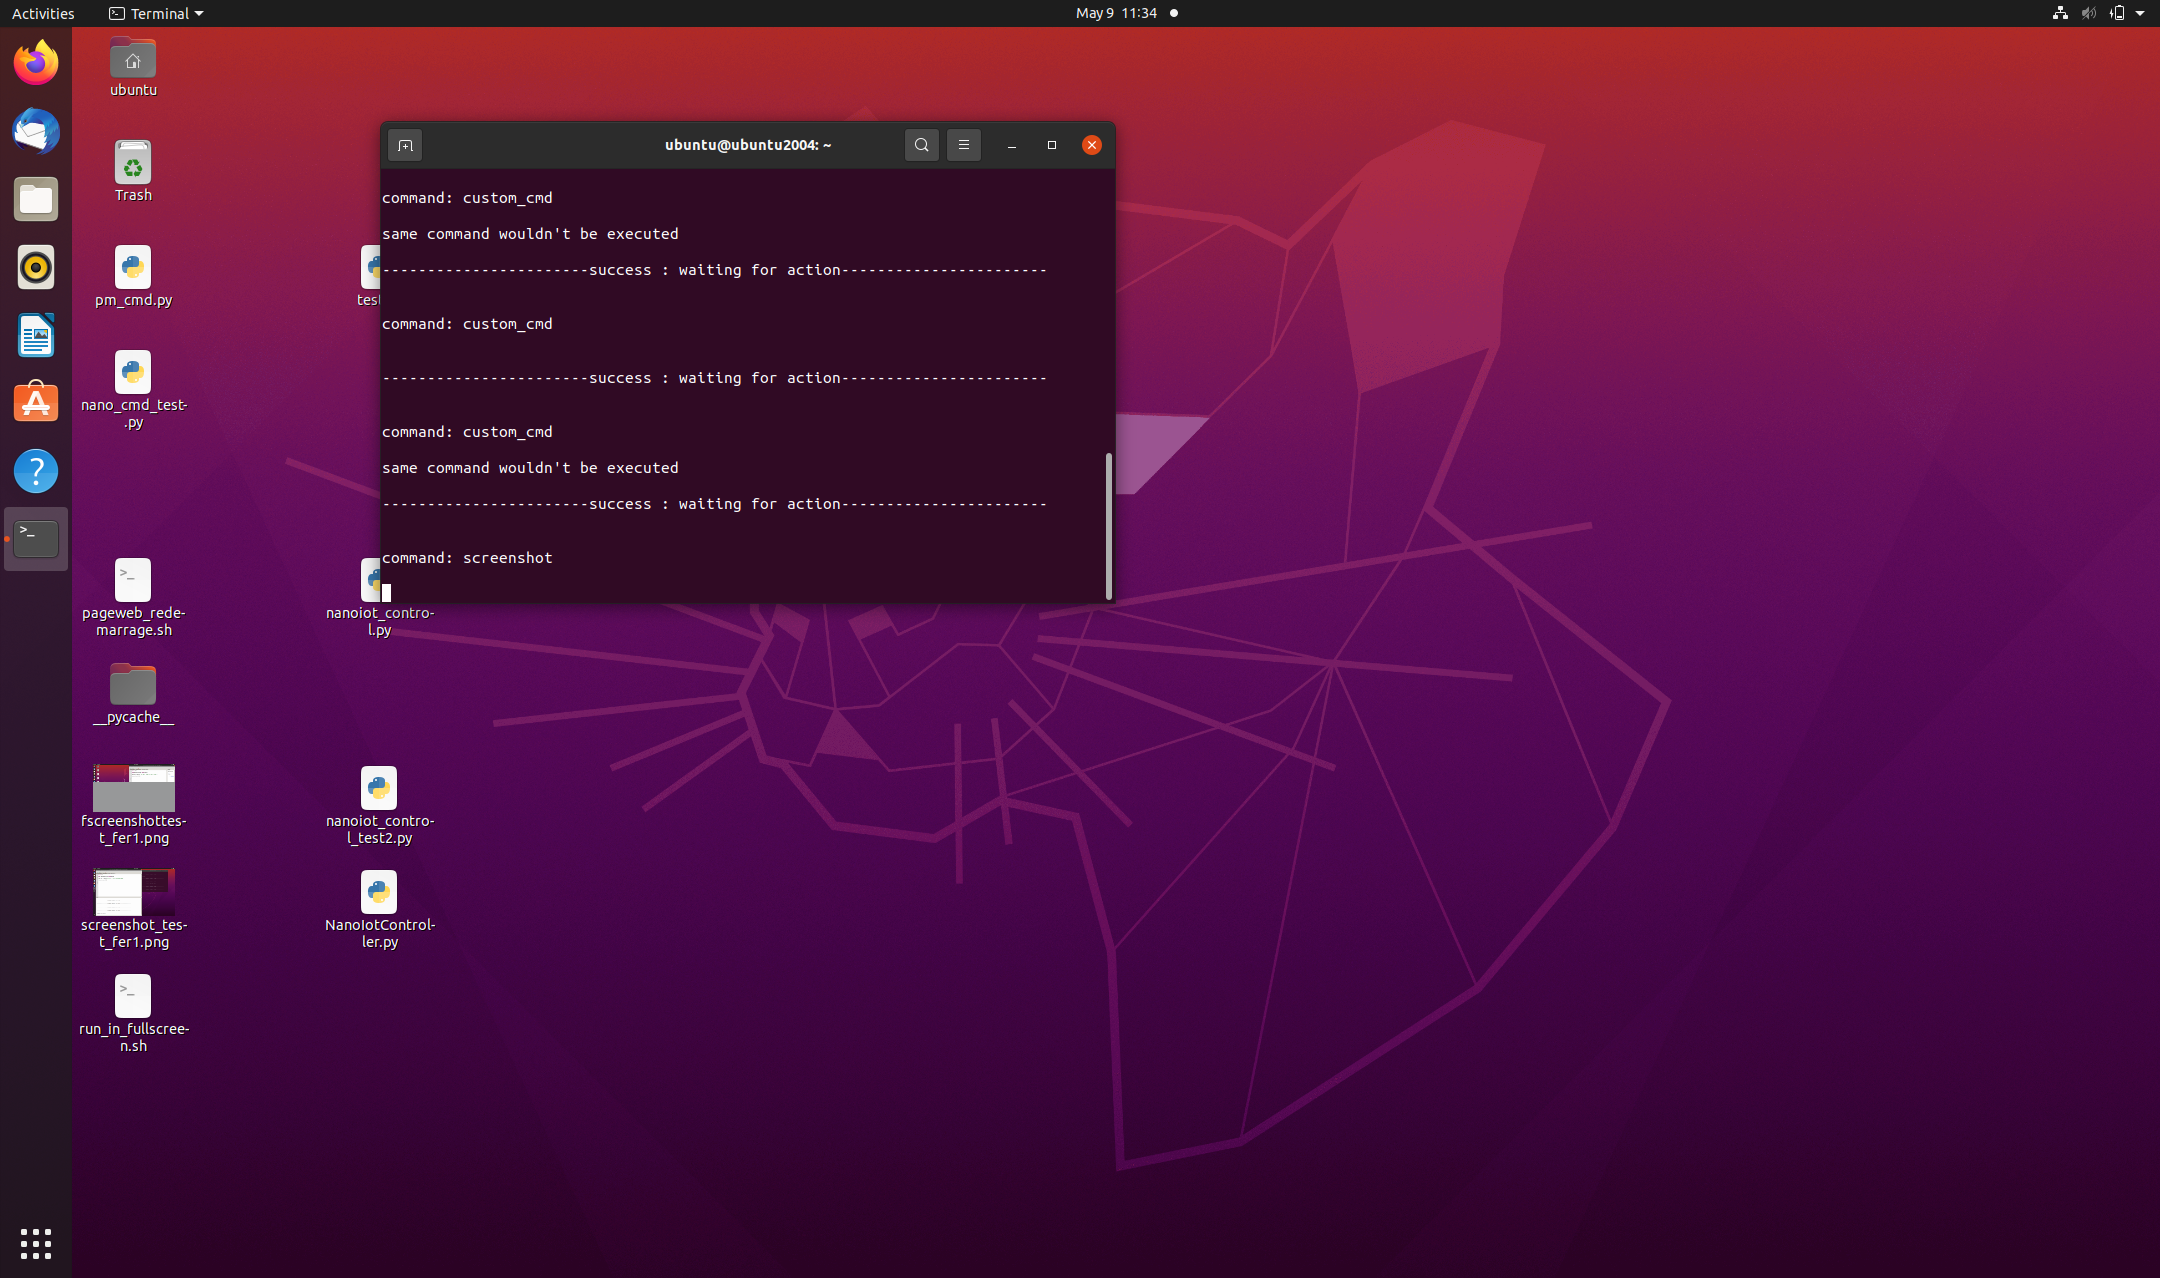
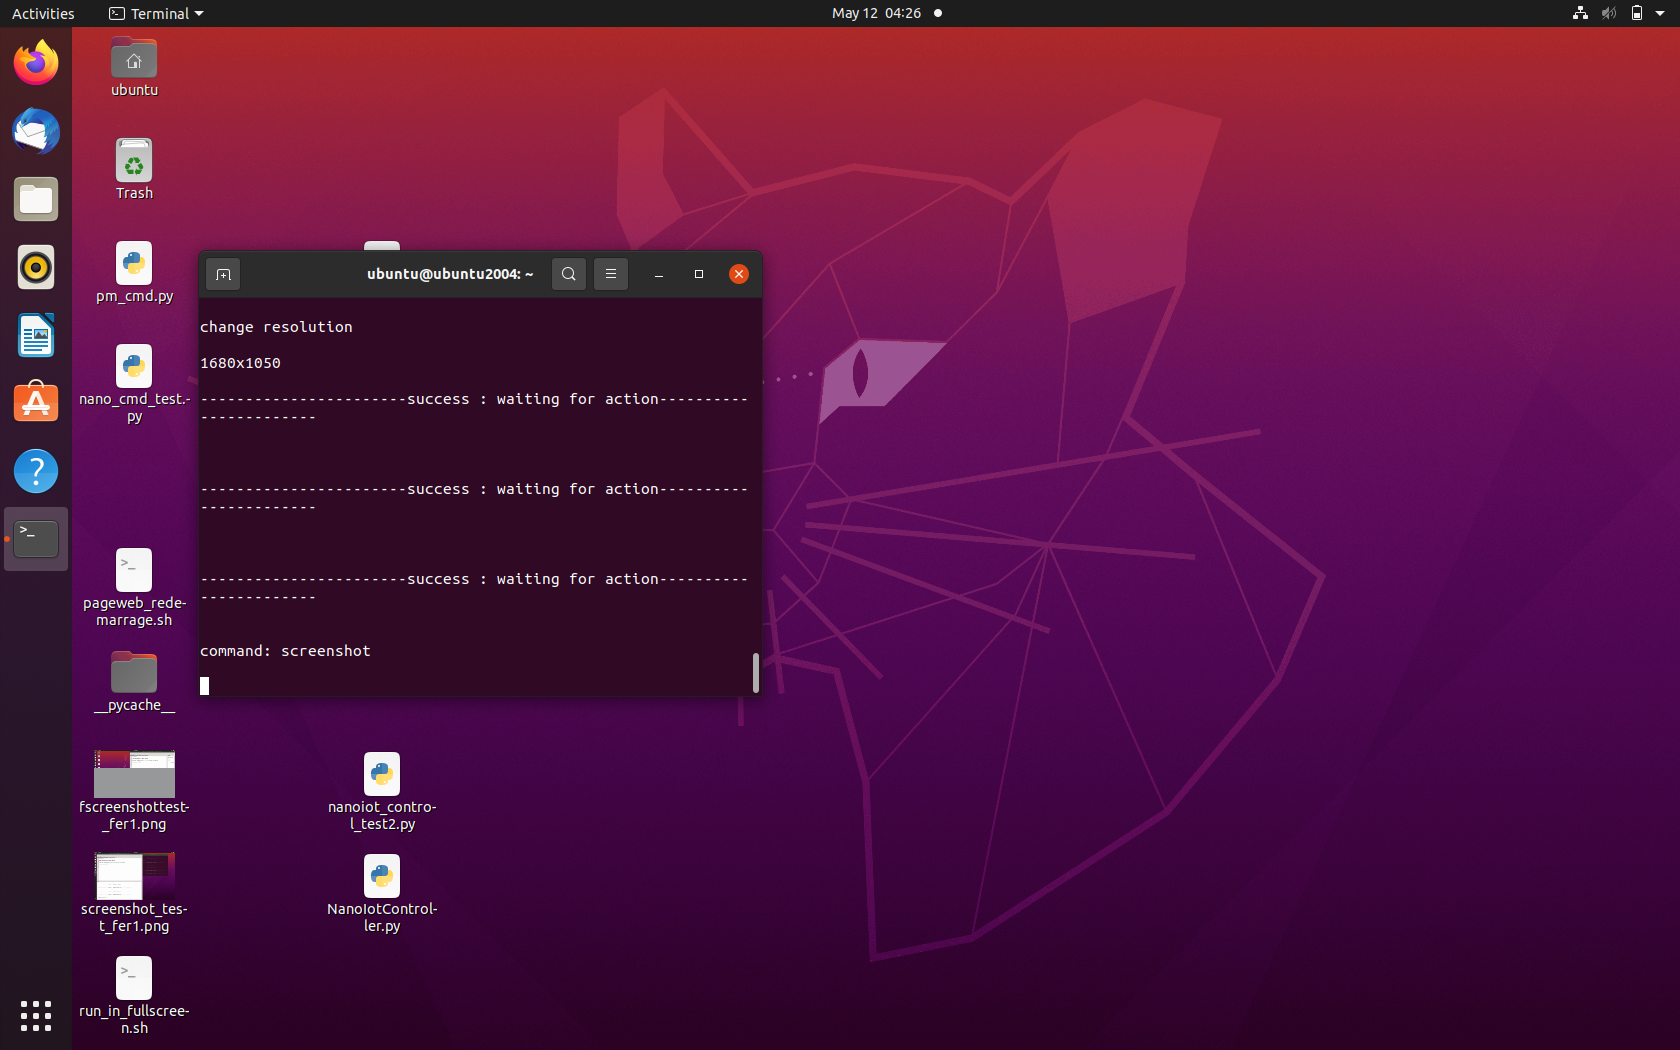
nano reactive testing

diff --git a/templates/nano.html b/templates/nano.html
@@ -47,7 +47,7 @@
     {% for functionality in functionalities %}
             <div class="col-6 mt-4" >
         <div class="container-fluid">
-            <form id="{{ functionality }}" {% if functionality == 'show_video' %} action="{% url 'show_video' hostname  %}" method="POST" enctype="multipart/form-data" {% endif %} class="row align-items-center justify-content-center" style="" method="post">
+            <form id="{{ functionality }}" {% if functionality == 'show_video' %} action="{% url 'show_video' hostname  %}" enctype="multipart/form-data" {% endif %} class="row align-items-center justify-content-center" style="" method="post">
                 <h2> {{ functionality.title }} :</h2>
                 {% if functionality == "show_dashboard" %}
                     <div class="input-group col-10">
@@ -87,17 +87,7 @@
 
 
                 {% elif functionality == "change_resolution" %}
-                    <div id="accordion">
-                        <div class="row justify-content-center" align="center">
-                            <div class="mt-4 mb-4">
-                                <h5 class="mb-0 justify-content-center">
-                                    <button class="btn btn-outline-light" data-toggle="collapse" data-target="#resolution" aria-expanded="true" aria-controls="{{ where.0.title }}">
-                                        Change Resolution
-                                    </button>
-                                </h5>
-                                <div id="resolution" class="collapse" aria-labelledby="headingOne" data-parent="#accordion">
-                                    <div class="card-body">
-                                        <div class="input-group ">
+                    <div class="input-group ">
 
                                           <div class="input-group-prepend">
                                             <label class="input-group-text" for="inputGroupSelect01">Resolution</label>
@@ -108,14 +98,8 @@
                                             {% endfor %}
                                           </select>
 
-                                            <button {% if functionality == 'change_resolution' %} id="changeResolutionButton" {% endif %}type="submit" class="btn btn-custom btn-primary w-100">{% if functionality == 'show_video' %} Upload Video {% else %}{{ functionality|title }}{% endif %}</button>
 
                                         </div>
-                                    </div>
-                                </div>
-                            </div>
-                        </div>
-                    </div>
 
 
                 {% endif %}

diff --git a/templates/nano_reactive.html b/templates/nano_reactive.html
@@ -204,6 +204,11 @@
       
                     {% endif %}
                 </form >
+                {% if functionality == 'show_video' %}
+                    <form id="send_show_video">
+                        <button type="submit" class="btn btn-success ">Show Video in NanoIoT : {{ hostname }}</button>
+                    </form>
+                {% endif %}
 
 
               </div>

diff --git a/templates/screenshot.html b/templates/screenshot.html
@@ -5,7 +5,7 @@
     <title>{{ hostname }}Screenshot</title>
 </head>
 <body>
-<h1> Ce pop-up ne doit pas rester ouvert pour une longue durée</h1>
+
 <img id="screenshot-image" src="" width="700" height="400" alt="Screenshot">
 
 <script src="https://ajax.googleapis.com/ajax/libs/jquery/3.6.3/jquery.min.js"></script>

diff --git a/NANOS/views.py b/NANOS/views.py
@@ -30,7 +30,7 @@ class Nano(View):
         nano.what = ''
         nano.custom_cmd = None
         nano.save()
-        return render(request, 'nano_reactive.html', {'functionalities': functionalities,
+        return render(request, 'nano.html', {'functionalities': functionalities,
                                                       'hostname': hostname,
                                                       'where_dict': where_dict,
                                                       'resolutions': resolutions

diff --git a/API/views.py b/API/views.py
@@ -131,7 +131,6 @@ class ShowVideo(View):
         return HttpResponseRedirect("/nano/" + hostname)
 
     def get(self, request, hostname):
-        nano = NanoIoT.objects.all().get(hostname=hostname)
         return JsonResponse({
             'what': 'show_video',
             'video_link':  request.POST.get('video_link')
